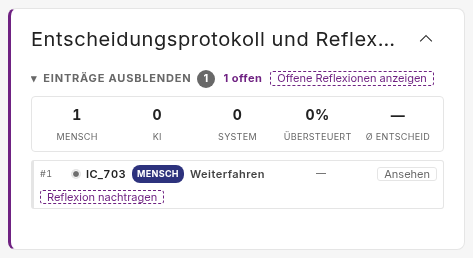
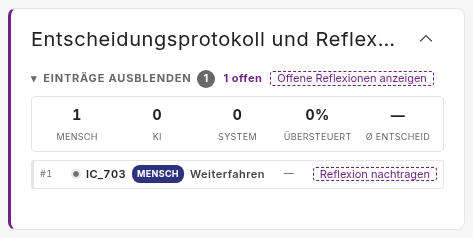
docs(plans): retake the log pictures and tidy the plan after S31 and S32.

diff --git a/docs/plans/reflection-inline.md b/docs/plans/reflection-inline.md
@@ -1,11 +1,12 @@
 # Reflection in the decision log, without pausing the run (#160)
 
-> **Status:** plan, 2026-11-05. S1-S5 and S7 are committed as one commit,
+> **Status:** plan of 2026-11-05, built by 2026-11-09 (S1-S32, no open step). S1-S5 and S7 are committed as one commit,
 > f977f7c, S6 as 1221529; findings 1, 2, 4 and 13-17 are fixed. S8-S11 (findings
 > 21, 12 with 10, 20 and 3) are fixed in 37659fd, d1e8adc, cadade1 and c491fb6; the PR
 > comments 23 and 24 in S12 and S13, b484221 and a16424e (Q12; Q1 revisited:
 > Plan B's log starts open, D4); 5-9, 11, 18 and 22 in S14-S20, 1e6151b to
-> ba64e47 (§7.1). 19 is a follow-up (§9).
+> ba64e47 (§7.1); 25 in S21; 19 and 26 are follow-ups (§1.3, 26 as
+> [#182](https://github.com/flatland-association/flatland-ui-hub/issues/182)); 28-34 in S32.
 > Based on `main` 7eef0cb (rebased on 2026-11-06 from 1e33088,
 > where the before pictures were taken), which has #150 ([PR #172](https://github.com/flatland-association/flatland-ui-hub/pull/172)):
 > its decision log toggle covers what this plan first designed for opening
@@ -116,6 +117,7 @@ No step is open; the follow-ups are not in this PR (§1.3).
 | — | Follow-up: show open reflections in a replay | feat | low | — |
 | 19 | Follow-up: an order between the places that show a reflection, or one place per mode in hand-built layouts | design | low | — |
 | — | Follow-up: a native review of the French title and texts | i18n | low | — |
+| — | Follow-up: get the initial bundle back under 2 MB (D28) | build | low | — |
 | 26 | Follow-up: a fixed order of the reflection's questions ([#182](https://github.com/flatland-association/flatland-ui-hub/issues/182)) | design | low | — |
 
 ### Design principles
@@ -184,6 +186,12 @@ Reused concepts:
   course was taken (train, the courses PLAN, KI and MENSCH, the comparison),
   kept per decision (`ProposalSnapshot`) and shown read-only in its
   reflection (S27, D26). Not a new simulation, and not part of the record.
+- **Past decision («Ansehen»):** an entry's decided options shown again,
+  read-only, below the log's entries (`viewedSeq`, S29-S31, D29); one item
+  at a time there, a past decision or a reflection. Not a reflection.
+- **Kept answers (draft):** what was typed in a reflection and not sent,
+  per decision (`ReflectionDraft`, S30, D30), in memory. Not an answer: the
+  decision stays open until it is sent.
 - **Decision log:** the `decision-log` panel (`DecisionLogPanelComponent`),
   titled «Entscheidungsprotokoll und Reflexion» since S23
   («Entscheidungsprotokoll» before, D22). In a reason tour it is also where
@@ -212,12 +220,13 @@ Reused concepts:
 |---|---|---|---|---|
 | `SessionStore` (rationale part) | Holds the decisions that wait for a reason and records the reason on the decision. Not where the reason is asked, and not which panel shows it. | 🟨 modified: in reason tours keeps every open reflection, not one; reopens one by decision; stamps when it was answered; asks only where a place can show it (S10). | – | – |
 | `OperatorModelBridge` | Reports decisions to the operator model once their reflection is settled. Not where a reflection is asked or shown. | 🟨 modified: holds back every open decision, not only the shown one (finding 1). | – | – |
-| `ProposalCompareComponent` | Compares plan, AI and own choice for a train and applies one. Not where past decisions are listed (the decision log). | 🟨 modified: new title; showed the open reflection at its top in a tour that asks for reasons (S3), since S22 (D20) no longer, the log does. | <img src="reflection-inline/before-3-panel.png" width="260"> | <img src="reflection-inline/after-3-panel.png" width="260"> |
-| `ProposalCompareComponent` (S25-S27) | as above | 🟨 modified: titled «Handlungsoptionen»; closes after a course is taken and opens for the next choice (D25); read-only for a decided choice, inside the reflection (D26) and below a log entry (D29). | – | – |
-| `PanelShellComponent` | Frames a panel in a layout and opens or closes it. Not what the panel shows. | 🟨 modified (S26): a panel can ask its own frame to open or close. | – | – |
-| `ReflectionPromptComponent` | Asks the reflection for the shown decision. Not where it is placed. | 🟨 modified: names the course actually taken (§2, related bug); planned (S12, Q12 a): shows all its questions, without «Weitere Fragen», in every reason tour. | <img src="reflection-inline/before-2-dialog-text.png" width="260"> (in the dialog) | <img src="reflection-inline/after-2-dialog-text.png" width="260"> (in the decision panel; in the log from S22) |
+| `ProposalCompareComponent` | Compares plan, AI and own choice for a train and applies one. Not where past decisions are listed (the decision log). | 🟨 modified: titled «Handlungsvergleich» (S5), «Handlungsoptionen» since S25 (D24); closes after a course is taken and opens for the next choice (D25); read-only for a decided choice, in the reflection (D26) and for a past decision in the log (D29); showed the open reflection at its top in a tour that asks for reasons (S3), since S22 (D20) no longer, the log does. | <img src="reflection-inline/before-3-panel.png" width="260"> | <img src="reflection-inline/after-3-panel.png" width="260"> |
+| `PanelShellComponent` | Frames a panel in a layout and opens or closes it. Not what the panel shows. | 🟨 modified (S26): its frames open and close on request, also while closed (`PanelFrameService`), so «Handlungsoptionen» can close after a choice and open for the next. | – | – |
+| `ReflectionPromptComponent` | Asks the reflection for the shown decision. Not where it is placed. | 🟨 modified: names the course actually taken (§2, related bug); S12 (Q12 a): shows all its questions, without «Weitere Fragen», in every reason tour; S30: starts from the answers kept for its decision (D30). | <img src="reflection-inline/before-2-dialog-text.png" width="260"> (in the dialog) | <img src="reflection-inline/after-2-dialog-text.png" width="260"> (in the decision panel; in the log from S22) |
 | `DecisionLogPanelComponent` | Lists the run's decisions and, in a tour that asks for reasons, asks the reflection of one of them below the list. Not where a decision is taken (the decision panel). | 🟨 modified: open reflections are marked, counted next to the toggle, and can be reopened; highlighted when finishing is refused; since S22 and S23: the reflection is answered here, below the entries, and the panel is titled «Entscheidungsprotokoll und Reflexion»; S27: the decided options above the reflection's questions; S29: «Ansehen» on an entry shows its decided options again, from S30 below the entries, in the reflection's place. | <img src="reflection-inline/before-4-log.png" width="200"> | <img src="reflection-inline/after-4-log.png" width="200"> |
-| `SessionStore` (decided options) | Keeps, per decision, the options the decision panel showed when the course was taken. Not exported, and not where they are drawn. | 🟩 added (S27): the reflection, and from S29 the log entry, can show what was decided on. | – | – |
+| `SessionStore` (decided options, drafts) | Keeps, per decision, the options the decision panel showed when the course was taken, and what was typed in its reflection and not sent. Not exported, and not where they are drawn. | 🟩 added (S27): the reflection, and from S29 the log entry, can show what was decided on; S30: a reflection opened again starts from what was typed (D30). | – | – |
+| `PanelFrameService` | Carries requests to open or close the frames of one panel type. Not the frames' state, which each frame keeps, and not who asks. | 🟩 added (S26): «Handlungsoptionen» closes after a choice and opens for the next, in every layout that shows it. | – | – |
+| `ProposalChoiceService` | Shares the option picked for the selected train between the decision panel and the map. Not where a course is taken. | 🟨 modified (S26 fix): opens «Handlungsoptionen» when new options come up (another train selected, a train newly affected), also while it is closed; not in a replay. | – | – |
 | `TourReasonDialogComponent` | The modal reflection that pauses the run. | 🟥 removed. | <img src="reflection-inline/before-1-dialog.png" width="320"> | – (removed) |
 | `TourGuideComponent` | Leads through the tour's steps. Not where a scenario is finished in an experiment run (the toolbar). | 🟨 modified: «Reflexion öffnen» reopens the newest open reflection, now in the panel (the log from S22); «Schicht beenden» is refused while reflections are open. | <img src="reflection-inline/before-5-guide.png" width="360"> | <img src="reflection-inline/after-5-guide.png" width="360"> |
 | `AppComponent.finishDemoMode` / `ToolbarComponent` | Finishes a scenario or tour leg from the toolbar. Not where the reflection is asked. | 🟨 modified: refuses while reflections are open, and says so next to the button. | <img src="reflection-inline/before-6-finish.png" width="360"> | <img src="reflection-inline/after-8-toolbar-refused.png" width="360"> (finish refused) |
@@ -225,7 +234,7 @@ Reused concepts:
 | `RationaleCaptureComponent` | The short "why?" prompt with reason chips, in the Recommendation panel and the Co-Learning reflection panel, for sessions that are not a reason tour. Not the reflection of a reason tour (`ReflectionPromptComponent`). | 🟨 modified (S8, S9): starts empty for a new decision, and names the course actually taken; it still asks about the latest decision as on `main` (finding 4). | <img src="reflection-inline/before-9-rationale-capture.png" width="220"> | <img src="reflection-inline/after-9-rationale-capture.png" width="220"> |
 | `AppComponent.reflectionPlaceInLayout` | Says whether the active layout has a panel that can show a "why?", expanded or collapsed. Not which one shows it (D15), and not the reflection itself (`SessionStore`). | 🟩 added (S10): a decision asks a "why?" only where the participant can see it; since S22: in a reason tour the decision log is the place, not «Handlungsvergleich». | – | –
 | `preset-plan-b` (`PLAN_B_UI`) | Plan B's layout and the UI items it removes or collapses. Not the deployment-wide items (`ui-config.json`). | 🟨 modified (S13, D4): the decision log starts open, so the participant sees its entries without opening them. | – | – |
-| `preset-plan-b`, `preset-colearning-interview` (columns) | Where the reason tours' panels sit. Not which UI items a condition removes (`PLAN_B_UI`). | 🟨 modified (S23, D21): the decision log moves from the left column to the right one, between «Lage: Risiko & Auswirkung» and «Handlungsvergleich». | – | – |
+| `preset-plan-b`, `preset-colearning-interview` (columns) | Where the reason tours' panels sit. Not which UI items a condition removes (`PLAN_B_UI`). | 🟨 modified (S23, D21): the decision log moves from the left column to the right one, between «Lage: Risiko & Auswirkung» and «Handlungsvergleich»; below «Handlungsoptionen» since S26 (D23). | – | – |
 
 Pictures from `plan-b-p01`, leg 1, Plan B deployment config, except
 `RationaleCaptureComponent`: `preset-colearning-study3` (English), after
@@ -259,7 +268,7 @@ Pictures from `plan-b-p01`, leg 1, Plan B deployment config, except
 
 ### 1.1 Limitations
 
-The code keeps no list of its own; these become comments at the places named.
+The code keeps no list of its own; the places named carry comments.
 
 - What is typed in a reflection and not sent is kept in memory only
   (D30): after a reload it is gone, as are the open reflections.
@@ -362,7 +371,7 @@ gains two optional fields, which older readers ignore. Behaviour:
 - `SessionStore.pendingRationale` becomes read-only (a `computed`, finding 1).
   Every reader keeps working; nothing outside the store wrote it (grepped
   2026-11-06), and the tests only read it.
-- «Plan / KI / Mensch» reads «Handlungsvergleich» everywhere. The click id
+- «Plan / KI / Mensch» reads «Handlungsvergleich» everywhere («Handlungsoptionen» since S25, below). The click id
   `panels.planAiHuman` stays; only the wording changes (AGENTS.md, click ids).
 - S8: the short "why?" no longer carries the previous decision's chips and
   note over to a newer one. Records made before kept them by mistake
@@ -405,6 +414,8 @@ gains two optional fields, which older readers ignore. Behaviour:
   exported.
 - S29 (D29): two new click ids, `log.viewDecision` and `log.hideDecision`
   (`docs/experiment-logging.md`); nothing else changes in the record.
+- S30-S32 (D29, D30): nothing changes in the record; the kept answers are
+  not exported.
 - Build (D28): the initial bundle's error budget goes from 2.00 MB to
   2.10 MB (`frontend/angular.json`). `main` 7eef0cb was 1,993,658 bytes, 6.3 kB
   under it; this PR adds about 6.8 kB, and S26 crossed it by 432 bytes. Every
@@ -484,7 +495,7 @@ after the rebase onto #150; picture 4 changed with it.
 
 ## 3. Decisions
 
-All decisions are ✅: D4, D5 and D10-D13 from the answers to Q1-Q5 (D4 revised by the PR comment of 2026-11-06, Q1 revisited), the others confirmed on 2026-11-05; D14 with Q6-Q8, D15 with Q10, D16 with Q9 and D17 with Q11 on 2026-11-06; D18 with Q12 on 2026-11-07; D19 with finding 25, D20-D22 with Q13 on 2026-11-09; D23-D27 with requirements 12-16, Q14 and Q15 the same day; D29 with requirement 17 and D30 with requirements 18 and 19 the same day.
+All decisions are ✅: D4, D5 and D10-D13 from the answers to Q1-Q5 (D4 revised by the PR comment of 2026-11-06, Q1 revisited), the others confirmed on 2026-11-05; D14 with Q6-Q8, D15 with Q10, D16 with Q9 and D17 with Q11 on 2026-11-06; D18 with Q12 on 2026-11-07; D19 with finding 25, D20-D22 with Q13 on 2026-11-09; D23-D27 with requirements 12-16, Q14 and Q15 the same day; D28 with the maintainer's answer on the bundle budget, D29 with requirement 17 and D30 with requirements 18 and 19 the same day.
 
 | ID | Decision | Why |
 |---|---|---|
@@ -497,8 +508,8 @@ All decisions are ✅: D4, D5 and D10-D13 from the answers to Q1-Q5 (D4 revised 
 | D7 | ✅ `reflectedAt` (clock time) and `reflectedAtStep` (sim step) are stamped on the decision when its reflection is answered (confirmed 2026-11-05) | Without the pause a reflection can come at once or just before finishing, and the analysis has to tell them apart; the decision only records when it was taken. Not the click log (`ClickLogService`): the reflection's buttons have no click id and no link to their decision, and the click log is only written with study logging on, while the decision log is in every export. The time sits next to the answers it describes; older readers ignore the fields |
 | D8 | ✅ The reflection names the course actually taken: the prompt reads the logged choice from the decision log, as `submitRationale` already does, so «Plan behalten» reads "Weiterfahren" and the AI plan "den KI-Vorschlag" instead of "Umleiten" (confirmed 2026-11-05) | A panel choice stores the placeholder action 2 ("Umleiten") and puts the real choice on the log entry; the saved learning record is right, only what the participant sees is wrong (§2). In S3 rather than a separate fix: S3 moves the prompt next to the choice, where a contradicting label invites wrong answers, and the fix is two lines in code S3 touches. The participant's own choice («Mensch») goes through the override path and is already right |
 | D9 | ✅ `tourUi.reason.lead` and `.note` are deleted in de/en/fr; `tourUi.reason.eyebrow` («Co-Learning · Schritt 6 Reflexion») stays as the heading of the reflection in the panel (confirmed 2026-11-05) | Requirements 5, 6. Only the removed dialog uses the two keys, and they are paragraph text, not click ids, so AGENTS.md allows deleting them; kept, they would be dead text that `i18n:check` never flags. The heading links the reflection to step 6 of the guide |
-| D10 | ✅ A collapsed decision panel stays collapsed when a reflection arrives. A button «Offene Reflexionen anzeigen» next to the open count opens the log's entries and highlights the open ones, the same view D6 shows when finishing is refused; built in S4 (decided 2026-11-05, Q3). Since D20 the same holds for a collapsed log | The participant keeps control of the layout; the open count says that one is waiting |
-| D11 | ✅ Titles: de «Handlungsvergleich», en «Action comparison», fr «Comparaison des actions» (decided 2026-11-05, Q5); the French one still goes to a native reviewer | Requirement 2 |
+| D10 | ✅ A collapsed decision panel stays collapsed when a reflection arrives. A button «Offene Reflexionen anzeigen» next to the open count opens the log's entries and highlights the open ones, the same view D6 shows when finishing is refused; built in S4 (decided 2026-11-05, Q3). Since D20 the same holds for a collapsed log. Revised 2026-11-09 for the decision panel by D25: it closes after a choice and opens for the next; D10 holds for the log | The participant keeps control of the layout; the open count says that one is waiting |
+| D11 | ✅ Titles: de «Handlungsvergleich», en «Action comparison», fr «Comparaison des actions» (decided 2026-11-05, Q5; revised 2026-11-09 by D24: «Handlungsoptionen»); the French one still goes to a native reviewer | Requirement 2 |
 | D12 | ✅ «Nein» counts as an answered reflection, with or without a reason chip; the prompt is unchanged (decided 2026-11-05, Q2 a) | Keeps the reflection the same in every tour; the record tells a bare «Nein» apart (§1.1) |
 | D13 | ✅ Every `reasonDialog` tour refuses to finish with open reflections, the interview tour included (decided 2026-11-05, Q4 a) | One rule (requirement 7); the interviewer can answer for the interviewee |
 | D14 | ✅ A new `TourBriefing.pauseOnReflection` flag, off by default, pauses the run while a reflection is shown and resumes it as the removed dialog did (decided 2026-11-06, requirement 8). It pauses while a reflection is shown, not while any is open (Q6 a); no tour sets it yet (Q7 a); it has effect only together with `reasonDialog` (Q8 a) | Keeps the old behaviour available per tour without bringing back the dialog |
@@ -560,7 +571,7 @@ All decisions are ✅: D4, D5 and D10-D13 from the answers to Q1-Q5 (D4 revised 
 
 ### 4.2 The reflection in the decision log (requirements 1, 5, 6, 10; D1, D2, D8, D9, D20)
 
-- Planned in S22 (D20): `DecisionLogPanelComponent`, when `tour.reasonDialog()`,
+- Built in S22 (D20): `DecisionLogPanelComponent`, when `tour.reasonDialog()`,
   the mode is not Director and `pendingRationale()` is set, shows below its
   entries a section: the eyebrow «Co-Learning · Schritt 6 Reflexion» and
   `<app-reflection-prompt />`. One reflection at a time, the one the store
@@ -573,12 +584,12 @@ All decisions are ✅: D4, D5 and D10-D13 from the answers to Q1-Q5 (D4 revised 
   (it no longer is one); `strategyLabel()` and `hypothesis` pass the logged
   action from `decisionLog()` like `submitRationale`.
 - `TourReasonDialogComponent` and its tag in `app.component.html:1077` are
-  removed, with the pause effect; S7 brings the effect back behind a tour
+  removed, with the pause effect; S7 brings the effect back behind a tourkubectl -n 
   flag (§4.7).
 - When a reflection is shown, the log scrolls it into view inside its own body
   (`scrollIntoPanel`, S15, moved out of `proposal-compare.component.ts` with
   the section); when the log is collapsed, it stays collapsed (D10).
-- Planned in S12 (D18), in every reason tour (scope in Q12): `ReflectionPromptComponent` shows every question
+- Built in S12 (D18), in every reason tour (scope in Q12): `ReflectionPromptComponent` shows every question
   of its pool (`REFLECTION_QUESTION_POOL`: gut feeling, missing information,
   drawback) in the order `pickQuestions` draws for the decision. `more`,
   `showMore`, the «Weitere Fragen (n)» button and the key
@@ -606,13 +617,14 @@ All decisions are ✅: D4, D5 and D10-D13 from the answers to Q1-Q5 (D4 revised 
   `dl-entry--missing` (colour from an `--app-*` token). It ends when no
   reflection is open. The button does not show the toolbar's message; only a
   refused finish does.
-- Planned in S13 (D4): `PLAN_B_UI` drops
+- Built in S13 (D4): `PLAN_B_UI` drops
   `collapsedByDefault: ['widget.decision-log']`, so the log starts open under
   Plan B, as in every other setup already. The toggle, the open count and
   «Offene Reflexionen anzeigen» stay; a participant can still close the
   entries. The verb `collapsedByDefault` stays for other conditions.
-- Planned in S23 (D21): `preset-pb-decisions` and `preset-ci-decisions` move
-  from the left column to the right one, between «Lage» and the decision
+- Built in S23 (D21): `preset-pb-decisions` and `preset-ci-decisions` move
+  from the left column to the right one (below the decision panel since S26,
+  D23), between «Lage» and the decision
   panel (D21),
   with their ids, `expanded` and `minHeight` unchanged; their comments say
   why (the reflection is answered there).
@@ -647,7 +659,7 @@ All decisions are ✅: D4, D5 and D10-D13 from the answers to Q1-Q5 (D4 revised 
   keys for `panel-titles.ts`, not shown text. `STOCK_PANEL_TITLES` maps the
   new name to the same key too, so a panel added from the catalog under
   «Handlungsvergleich» is translated as well.
-- Planned in S23 (D22): `panels.decisionLog`: de «Entscheidungsprotokoll und
+- Built in S23 (D22): `panels.decisionLog`: de «Entscheidungsprotokoll und
   Reflexion», en «Decision log and reflection», fr «Journal des décisions et
   réflexion». `STOCK_PANEL_TITLES` maps the new German and English titles to
   the same key, next to the old ones. `widget-catalog.ts` keeps its name
@@ -688,7 +700,7 @@ classDiagram
   style PendingRationale fill:#f1f3f5,stroke:#868e96,color:#000
 ```
 
-Planned: two optional fields on the decision; the open list stays in the
+Built: two optional fields on the decision; the open list stays in the
 client and is not recorded.
 
 ```mermaid
@@ -889,7 +901,9 @@ Built in S25-S27 and S29-S31.
 | `frontend/src/app/features/rationale-capture/rationale-capture.component.spec.ts` | S8: a newer decision empties the short "why?"; S9: its label after «Plan behalten» |
 | `docs/plans/reflection-inline/*.png` | Before pictures (§2), after pictures |
 | `frontend/src/app/testing/tour-context-stub.ts` | S17: `provideTourContextStub(reasonDialog)`, the tour context the specs share |
-| `frontend/src/app/core/demo/reason-tours.spec.ts` | S18: every reason tour's layout places the decision panel; S22: the decision log instead, S23: in the right column |
+| `frontend/src/app/core/demo/reason-tours.spec.ts` | S18: every reason tour's layout places the decision panel; S22: the decision log instead, S23: in the right column; S26: the log below the decision panel |
+| `frontend/src/app/core/layout/panel-frame.ts` | S26: `PanelFrameService`; exported from `core/layout/index.ts` |
+| `frontend/src/app/core/proposals/proposal-choice.service.spec.ts` | S26 fix: opens «Handlungsoptionen» on another train or a newly affected one, not in a replay |
 | `frontend/src/app/testing/proposal-snapshot.ts` | S27: `proposalSnapshot(applied)`, the decided options the specs share |
 
 ### Modified files
@@ -907,22 +921,21 @@ Built in S25-S27 and S29-S31.
 | `frontend/src/app/features/tour-guide/tour-guide.component.ts` / `.html` / `.spec.ts` | `canReflect` from the list; «Schicht beenden» gated (`endShift()`) |
 | `frontend/src/app/features/toolbar/toolbar.component.html` / `.scss` / `.spec.ts` | the refusal message |
 | `frontend/src/app/app.component.ts` / `.html` | the gate in `finishDemoMode()`; the dialog removed; the `queueReflections` sync (finding 4); `shiftScreenOpen()` waits for open reflections (finding 2); the reflection pause effect (S7); S10: `reflectionPlaceInLayout`; S22: `decision-log` instead of `proposal-compare` as a reason tour's place |
-| `frontend/src/app/core/demo/tour-briefings.ts` | `reasonDialog` doc comment; hints with the new title; the `reflect` hint without the pause (finding 13); `pauseOnReflection` (S7); S22: the `reflect` hint (de, en) says the decision log asks for the reason |
+| `frontend/src/app/core/demo/tour-briefings.ts` | `reasonDialog` doc comment; hints with the new title; the `reflect` hint without the pause (finding 13); `pauseOnReflection` (S7); S22: the `reflect` hint (de, en) says the decision log asks for the reason; S25: the hints say «Handlungsoptionen» |
 | `frontend/src/app/core/demo/tour-context.service.ts` | `pauseOnReflection` (S7); S17: `refuseFinish()` |
 | `frontend/src/app/app.component.spec.ts` | the reflection pause: pauses on show, resumes on close only if it paused, not in Director, not after the shift review (S7); S10: a place in the system layout, in presets with and without one, and «Handlungsvergleich» only in a reason tour; S22: the decision log instead |
 | `frontend/src/app/core/widgets/widget-catalog.ts` | the panel's name; S25: «Handlungsoptionen» |
 | `frontend/src/app/features/layout/components/panel-shell/panel-shell.component.ts` / `.spec.ts` | S26: `setExpanded(open)`, follows `PanelFrameService` for its panel type (spec); S32: only requests made after the frame exists (spec, finding 28) |
-| `frontend/src/app/core/proposals/proposal-choice.service.ts` / `.spec.ts` (spec new) | S26 fix: opens «Handlungsoptionen» on another train or a newly affected one, not in a replay (spec) |
+| `frontend/src/app/core/proposals/proposal-choice.service.ts` | S26 fix: opens «Handlungsoptionen» on another train or a newly affected one, not in a replay (spec) |
 | `frontend/src/app/app.config.ts` | S26 fix: creates `ProposalChoiceService` at startup |
-| `frontend/src/app/core/layout/panel-frame.ts` (new) | S26: `PanelFrameService` |
-| `frontend/src/app/features/proposal-compare/proposal-compare.component.ts` / `.html` / `.scss` / `.spec.ts` | S26: closes after a choice, opens for the next (specs with a stub frame); S27: the `decided` input and the read-only template (specs: no buttons, the taken course marked); S32: options kept as at the click (spec, finding 29), the doc comment (finding 34) |
+| `frontend/src/app/features/proposal-compare/proposal-compare.component.ts` / `.html` / `.spec.ts` | S26: closes after a choice, opens for the next (specs with a stub frame); S27: the `decided` input and the read-only template (specs: no buttons, the taken course marked); S32: options kept as at the click (spec, finding 29), the doc comment (finding 34) |
 | `frontend/src/app/core/session.store.ts` / `.spec.ts` | S27: `proposalSnapshots`, `keepProposalSnapshot`, cleared with the log (spec); S30: `ReflectionDraft`, `keepReflectionDraft`, `reflectionDraft` (spec); S31: `setAsideRationale` (spec); S32: drafts dropped with their decision, `_forgetBefore` for trimmed entries (specs, finding 31) |
 | `frontend/src/app/features/decision-log/decision-log-panel.component.ts` / `.html` / `.scss` / `.spec.ts` | S27: the decided options between the heading and the prompt, only with a snapshot (spec); S29: «Ansehen» / «Ausblenden» on an entry with a snapshot, its decided options below it; S30: they show below the entries, in the reflection's place; on an entry with an open reflection, «Ansehen» shows that reflection (specs); S31: one item at a time, «Ansehen» only without an open reflection (specs) |
 | `frontend/src/app/core/i18n/panel-titles.ts` | «Handlungsvergleich» → `panels.planAiHuman`, next to the old title; S25: «Handlungsoptionen», "Action options"; S23: «Entscheidungsprotokoll und Reflexion» and "Decision log and reflection" → `panels.decisionLog` |
-| `frontend/src/app/core/layout/layout-presets.ts` | the interview preset's comment: the reason is asked in the decision panel; S13: `PLAN_B_UI` without `collapsedByDefault`, and the comments on it and on `preset-pb-decisions`; S23: `preset-pb-decisions` and `preset-ci-decisions` to the right column, above the decision panel (D21) |
+| `frontend/src/app/core/layout/layout-presets.ts` | the interview preset's comment: the reason is asked in the decision panel (the decision log since S22); S13: `PLAN_B_UI` without `collapsedByDefault`, and the comments on it and on `preset-pb-decisions`; S23: `preset-pb-decisions` and `preset-ci-decisions` to the right column, above the decision panel (D21); S26: the decision panel above the log again (D23) |
 | `frontend/src/app/core/config/ui-config.service.spec.ts` | S13: Plan B's block leaves the decision log open; a condition can still collapse it |
 | `docs/plans/configurable-ui-plan.md` | S13: item 2 under Plan B, "collapsed" becomes "open since #160" |
-| `frontend/public/i18n/{de,en,fr}.json` | new title; S23: `panels.decisionLog` (D22); S25: `panels.planAiHuman`, `handoff`, `compareTitle` (D24); S27: `log.decidedAt`; S29: `log.viewDecision`, `log.hideDecision`; new keys (de / en / fr): `log.reflectionOpen` «Reflexion nachtragen» / "Add reflection" / «Ajouter la réflexion», `log.reflectionDone` «Reflexion erfasst» / "Reflection recorded" / «Réflexion enregistrée», `log.openCount` «{{n}} offen» / "{{n}} open" / «{{n}} ouverte(s)», `log.showOpenReflections` «Offene Reflexionen anzeigen» / "Show open reflections" / «Afficher les réflexions ouvertes», `toolbar.reflectionsMissing` «Noch {{n}} Entscheidung(en) ohne Reflexion. …» / "{{n}} decision(s) still without a reflection. …" / «Encore {{n}} décision(s) sans réflexion. …»; `tourUi.reason.lead`/`.note` deleted; S12: `reflectionPrompt.more` deleted |
+| `frontend/public/i18n/{de,en,fr}.json` | new title; S23: `panels.decisionLog` (D22); S25: `panels.planAiHuman`, `handoff`, `compareTitle` (D24); S27: `log.decidedAt` «Bereits entschieden · Schritt {{n}} · nur zur Information» / "Already decided · step {{n}} · for information only" / «Déjà décidé · pas {{n}} · pour information»; S29: `log.viewDecision`, `log.hideDecision` «Ansehen» / «Ausblenden», "View" / "Hide", «Voir» / «Masquer»; new keys (de / en / fr): `log.reflectionOpen` «Reflexion nachtragen» / "Add reflection" / «Ajouter la réflexion», `log.reflectionDone` «Reflexion erfasst» / "Reflection recorded" / «Réflexion enregistrée», `log.openCount` «{{n}} offen» / "{{n}} open" / «{{n}} ouverte(s)», `log.showOpenReflections` «Offene Reflexionen anzeigen» / "Show open reflections" / «Afficher les réflexions ouvertes», `toolbar.reflectionsMissing` «Noch {{n}} Entscheidung(en) ohne Reflexion. …» / "{{n}} decision(s) still without a reflection. …" / «Encore {{n}} décision(s) sans réflexion. …»; `tourUi.reason.lead`/`.note` deleted; S12: `reflectionPrompt.more` deleted |
 | `frontend/src/app/core/session.store.spec.ts` | a second decision waits while one is shown; dismiss keeps it open; submit stamps and shows the next; the refusal; the resets |
 | `docs/experiment-logging.md` | the click id table, regenerated with `node frontend/scripts/data-log-ids.mjs`: `log.reflectionOpen`, `log.showOpenReflections`; S29: `log.viewDecision` / `log.hideDecision`; S11: the screen table (`reflection` goes, `session` gains `reflection`) and how to read older records |
 | `frontend/src/app/core/interaction-log/view-tracker.service.ts` / `.spec.ts` | S11: a waiting reflection as `detail.reflection` on `session`; S16: `detail.centerView` |
@@ -954,12 +967,12 @@ Built in S25-S27 and S29-S31.
   flag it counts on (picture 1).
 - After pictures with the script, prefix `after`, next to the before ones.
 - S22-S24 (D20-D22), on `plan-b-p01`, leg 1, and the interview tour: the log
-  is the second panel of the right column and titled «Entscheidungsprotokoll
+  is the second panel of the right column (the third since S26) and titled «Entscheidungsprotokoll
   und Reflexion»; a decision in «Handlungsvergleich» shows the reflection
   below the log's entries and none in «Handlungsvergleich»; a second decision
   only raises the open count; «Reflexion nachtragen» shows the chosen one
   there; the refused finish highlights the open entry. S24 retakes
-  after pictures 1-4, 7 and 8 and the host pictures of §9.
+  after pictures 1-4, 6 and 7; the host pictures of §9 stay.
 - S25-S28 (D23-D27), same run: the right column reads «Lage»,
   «Handlungsoptionen», «Entscheidungsprotokoll und Reflexion»; taking a
   course closes «Handlungsoptionen» and the reflection opens in view with the
@@ -1062,7 +1075,10 @@ MB). In the running app, same run: after the reflection is answered with
 «Nein», «Ansehen» shows the decision below the entries, in the
 reflection's place (picture 10). The kept answers are checked by specs
 (switching between two open reflections, the prompt going away, sending),
-not in the running app.
+not in the running app. Pictures 1, 2, 7 and 10 are retaken. S31 (one item
+below the log) and S32 (findings 28-34): 740 specs (1 skipped), the same
+checks and build; picture 4 is retaken (no «Ansehen» on the open entry) and
+10 with the reflection answered first, as the script now does.
 
 Not yet checked in the running app: a second decision while one is open,
 finishing after a bare «Nein», the exported record's `reflectedAt`, leg 2,
@@ -1091,6 +1107,7 @@ specs cover the first three.
 | ✅ | S24 | Retake the after pictures (the host pictures show other places and stay); this plan's results | S22, S23 |
 | ✅ | S25 | Rename «Handlungsvergleich» to «Handlungsoptionen» (de, en, fr, the texts that quote it, catalog, `STOCK_PANEL_TITLES`) (D24) | - |
 | ✅ | S26 | The decision panel above the log again; it closes after a course is taken and opens for the next choice, through `PanelFrameService`; specs (D23, D25) | - |
+| ✅ | S26 fix | «Handlungsoptionen» opens again: `ProposalChoiceService`, created at startup, asks through `PanelFrameService`, since a closed frame drops the panel; spec | S26 |
 | ✅ | S27 | Decided options: `ProposalSnapshot` in the store, the read-only form of the decision panel, shown in the reflection with «Bereits entschieden · Schritt n · nur zur Information»; specs (D26, D27) | S26 |
 | ✅ | S29 | «Ansehen» on a log entry with decided options shows them below it, read-only; click ids; spec (D29, finding 27) | S27 |
 | ✅ | S30 | «Ansehen» in the reflection's place, and on an open entry its reflection; unsent answers kept per decision; specs; retake pictures 1, 2, 7 and 10 (D29 revised, D30, finding 8) | S29 |
@@ -1116,8 +1133,8 @@ refactoring, then tests and comments.
 | ✅ | S15 | 9 | `ProposalCompareComponent` scrolls the panel body (`.layout-panel-shell__body--scroll`) to the reflection, only when it is out of view, instead of `scrollIntoView`, which moved every scrolling ancestor. The timer is cleared in the effect's cleanup, so it cannot fire after the panel is gone. Outside a panel shell nothing scrolls. | Spec of the exported helper: the panel body scrolls, the column around it does not. |
 | ✅ | S16 | 22 | `SessionStore.centerView`, set by `ViewTabsComponent` from its active tab (`zug-weg-diagramm`, `flatland-map`, …). The working screen `session` gets `detail.centerView` while it is set; `centerTab` stays as it is, since the replay reads it. `docs/experiment-logging.md` lists the field. | View tracker spec: the tab id is logged, and switching tabs writes a new screen entry. The existing specs, which have no tab, are unchanged. |
 | ✅ | S17 | 7, 11 | `TourContextService.refuseFinish()`: in a tour that asks for reasons, refuse while reflections are open. `finishDemoMode()` and the guide's `endShift()` call it; its comment names the ways to end that need no gate (Director's «Schicht beenden», `finishExperiment` after the leg). The specs share `provideTourContextStub(reasonDialog)` in `src/app/testing/`. | App spec: `finishDemoMode()` is refused with an open reflection and goes on once it is answered. The guide, log and decision panel specs on the shared stub. |
-| ✅ | S18 | 6 | New spec: every tour and study condition whose briefing sets `reasonDialog` pins a layout with the decision panel (`proposal-compare`) and does not run Director, so «Reflexion nachtragen» always has a place (§1.2). | The new spec. |
-| ✅ | S19 | 8 | The comments on `openReflections` and `reopenRationale` say that a new decision never replaces the reflection being typed, but reopening another one from the log does, and the prompt then starts empty (§1.1, follow-up in §1.3). No `TODO`: the follow-up has no issue yet. | None (comments only); the existing specs. |
+| ✅ | S18 | 6 | New spec: every tour and study condition whose briefing sets `reasonDialog` pins a layout with the decision panel (`proposal-compare`; the decision log since S22) and does not run Director, so «Reflexion nachtragen» always has a place (§1.2). | The new spec. |
+| ✅ | S19 | 8 | The comments on `openReflections` and `reopenRationale` say that a new decision never replaces the reflection being typed, but reopening another one from the log does, and the prompt then started empty, until S30 kept what was typed (D30). No `TODO`. | None (comments only); the existing specs. |
 | ✅ | S20 | 18 | Code comments, specs and the screenshot scripts name the plan's sections and decisions (§4.1, D3, D16) instead of #160 or a finding number, and say in words what changed ("before the reflection moved into the panel"). | None (comments only); the existing specs. |
 | ✅ | S21 | 25 | Prose this PR adds says ZWL, as #173 (now in `main`) does everywhere else: "the ZWL tours" (Carried out, §1.5, finding 20), "ZWL" in the table of decision sources (finding 3), the app spec's `withContext`. Where the logged view type `zug-weg-diagramm` is named (`docs/experiment-logging.md` for `centerView` and `panel.view-tabs.tab`, the `SessionStore.centerView` comment), it is called the ZWL's and the value stays, as the stored and logged ids of #173 do (AGENTS.md). Ids in the plan (`preset-olten-zug-weg`, tour ids, `views.zugWeg`) stay. | None (prose and a spec's context text); the existing specs. |
 
@@ -1246,7 +1263,7 @@ refactoring, then tests and comments.
   rendered (D16). Q9 b was
   worded "while a place is rendered". A collapsible panel renders its content
   only while it is expanded (`panel-shell.component.html:51`). So «Handlungsvergleich»
-  collapsed in Plan B (which D10 keeps collapsed) or the Co-Learning
+  collapsed in Plan B (which D10 kept collapsed; D25 since) or the Co-Learning
   reflection panel collapsed in study 3 (its default) would stop the
   questions: a participant could skip reflections by collapsing a panel, and
   requirement 4 would no longer hold.
@@ -1343,8 +1360,10 @@ finding 22 (2026-11-06) from the recording for Q11. Findings 23 and 24
 review threads: each is a checkbox, "resolved" once it is ticked. Finding
 25 (added 2026-11-09) is a PR review thread of 2026-11-08; 26 and 27
 (added 2026-11-09) are conversation comments of 2026-11-09. Status
-checked on 2026-11-07 at a16424e: no new review threads or comments, both
-checkboxes ticked, and the PR adds no `TODO` lines in the code. Code review findings (28-34) were added on 2026-11-09, at 4102048, from a
+checked on 2026-11-09 at 3f14ad5: no new review threads or comments after
+the reply to 27, and the PR adds no `TODO` lines in the code. The analyses
+below the table describe the code as it was when each finding was checked;
+the table's status says what changed since. Code review findings (28-34) were added on 2026-11-09, at 4102048, from a
 review of the code changed since f977f7c; their line numbers refer to it.
 Sources: a
 `/code-review` pass, a review against this plan, and the PR's review threads
@@ -1370,7 +1389,7 @@ not resolved on GitHub yet.
 | ✅ | 10 | code review | refactor | low | `frontend/src/app/features/reflection-prompt/reflection-prompt.component.ts:113,143`, `frontend/src/app/core/session.store.ts:1277`: the logged-label lookup is written twice (prompt and `submitRationale`), and `strategyLabel()` only wraps `label()`. Fix: one store method `strategyLabelFor(pending)` used by both. Fixed in d1e8adc (S9): `SessionStore.rationaleLabel`. | fix(rationale-capture): name the course actually taken. |
 | ✅ | 11 | code review | test-coverage | low | `frontend/src/app/app.component.ts:1283`: the gate in `finishDemoMode()` has no test, and the `TourContextService` stub is repeated in four spec files. Fix: a spec for the gate, and a shared `provideTourContextStub(reasonDialog)` in `src/testing/`. Fixed in 215055b (S17): the app spec covers the gate in `finishDemoMode()`, and the specs share `provideTourContextStub`. | refactor(tour): check open reflections in one place before finishing. |
 | ✅ | 12 | screenshots | bug | medium | `frontend/src/app/features/rationale-capture/rationale-capture.component.ts:73,78`: the short "why?" prompt shows the same wrong label as D8 fixed in the reflection: after «Plan behalten» in the decision panel it says "IC_703 → Reroute" and "you prefer Reroute", because it calls `strategyLabelForAction(p.action, t)` without the logged choice. Seen on 2026-11-06 in `preset-colearning-study3`, a study condition, so participants of that condition read a hypothesis about a course they did not take. On `main` too. Fix: the same lookup as the reflection, best through the one store method of finding 10. Fixed in d1e8adc (S9): one lookup, `SessionStore.rationaleLabel`, for both prompts and the record; checked in the running app. | fix(rationale-capture): name the course actually taken. |
-| ✅ | 13 | review against this plan | docs | low | `frontend/src/app/core/demo/tour-briefings.ts:241,597`: the guide step «Reflexion» still said "Nach deiner Entscheidung hält die Simulation an" (and "the simulation pauses" in English). All eight `reasonDialog` briefings show it (§2), so after #160 the guide contradicts the running clock. Fixed in f977f7c: both hints now say the decision panel asks while the simulation keeps running, and that the decision log shows open reflections, all of which must be answered before finishing. | feat(reflection): ask the reflection in «Handlungsvergleich» without pausing the run. |
+| ✅ | 13 | review against this plan | docs | low | `frontend/src/app/core/demo/tour-briefings.ts:241,597`: the guide step «Reflexion» still said "Nach deiner Entscheidung hält die Simulation an" (and "the simulation pauses" in English). All eight `reasonDialog` briefings show it (§2), so after #160 the guide contradicts the running clock. Fixed in f977f7c: both hints now say the decision panel (since S22 the decision log) asks while the simulation keeps running, and that the decision log shows open reflections, all of which must be answered before finishing. | feat(reflection): ask the reflection in «Handlungsvergleich» without pausing the run. |
 | ✅ | 14 | [PR comment](https://github.com/flatland-association/flatland-ui-hub/pull/176#discussion_r4483074726), resolved | design | medium | `docs/plans/reflection-inline.md:524` (at de9d762): which option for Q2, does «Nein» count as a reflection? @CleverManu: a), leave it as it is; the module will be rephrased, and «Nein» may go. Fixed in de9d762: recorded as Q2 a and D12. | docs(plans): record the decisions on Q2, Q3 and Q4 for #160. |
 | ✅ | 15 | [PR comment](https://github.com/flatland-association/flatland-ui-hub/pull/176#discussion_r4483076853), resolved | design | medium | `docs/plans/reflection-inline.md:533` (at de9d762): which option for Q4, does the interview tour refuse to finish too? @CleverManu: a). Fixed in de9d762: recorded as Q4 a and D13. | docs(plans): record the decisions on Q2, Q3 and Q4 for #160. |
 | ✅ | 16 | [PR comment](https://github.com/flatland-association/flatland-ui-hub/pull/176#discussion_r4485910809), resolved | design | medium | `docs/plans/reflection-inline.md:260` (at de9d762): D6, finishing with open reflections is refused; @CleverManu agreed. Fixed in f977f7c: built as decided (§4.4). | feat(reflection): ask the reflection in «Handlungsvergleich» without pausing the run. |
@@ -1663,7 +1682,7 @@ switch is not visible in the screen log: `centerTab` knows only `marey`,
 `map` and `other`, and logs `map` for both ZWL and Streckenspiegel (steps 2,
 12; finding 22).
 
-**Fix (proposed):**
+**Fix (built in S11):**
 
 - `currentView` no longer returns the screen `reflection`. The working
   screen's detail gets `reflection: 'rationale' | 'co-learning' | 'strategy'`
